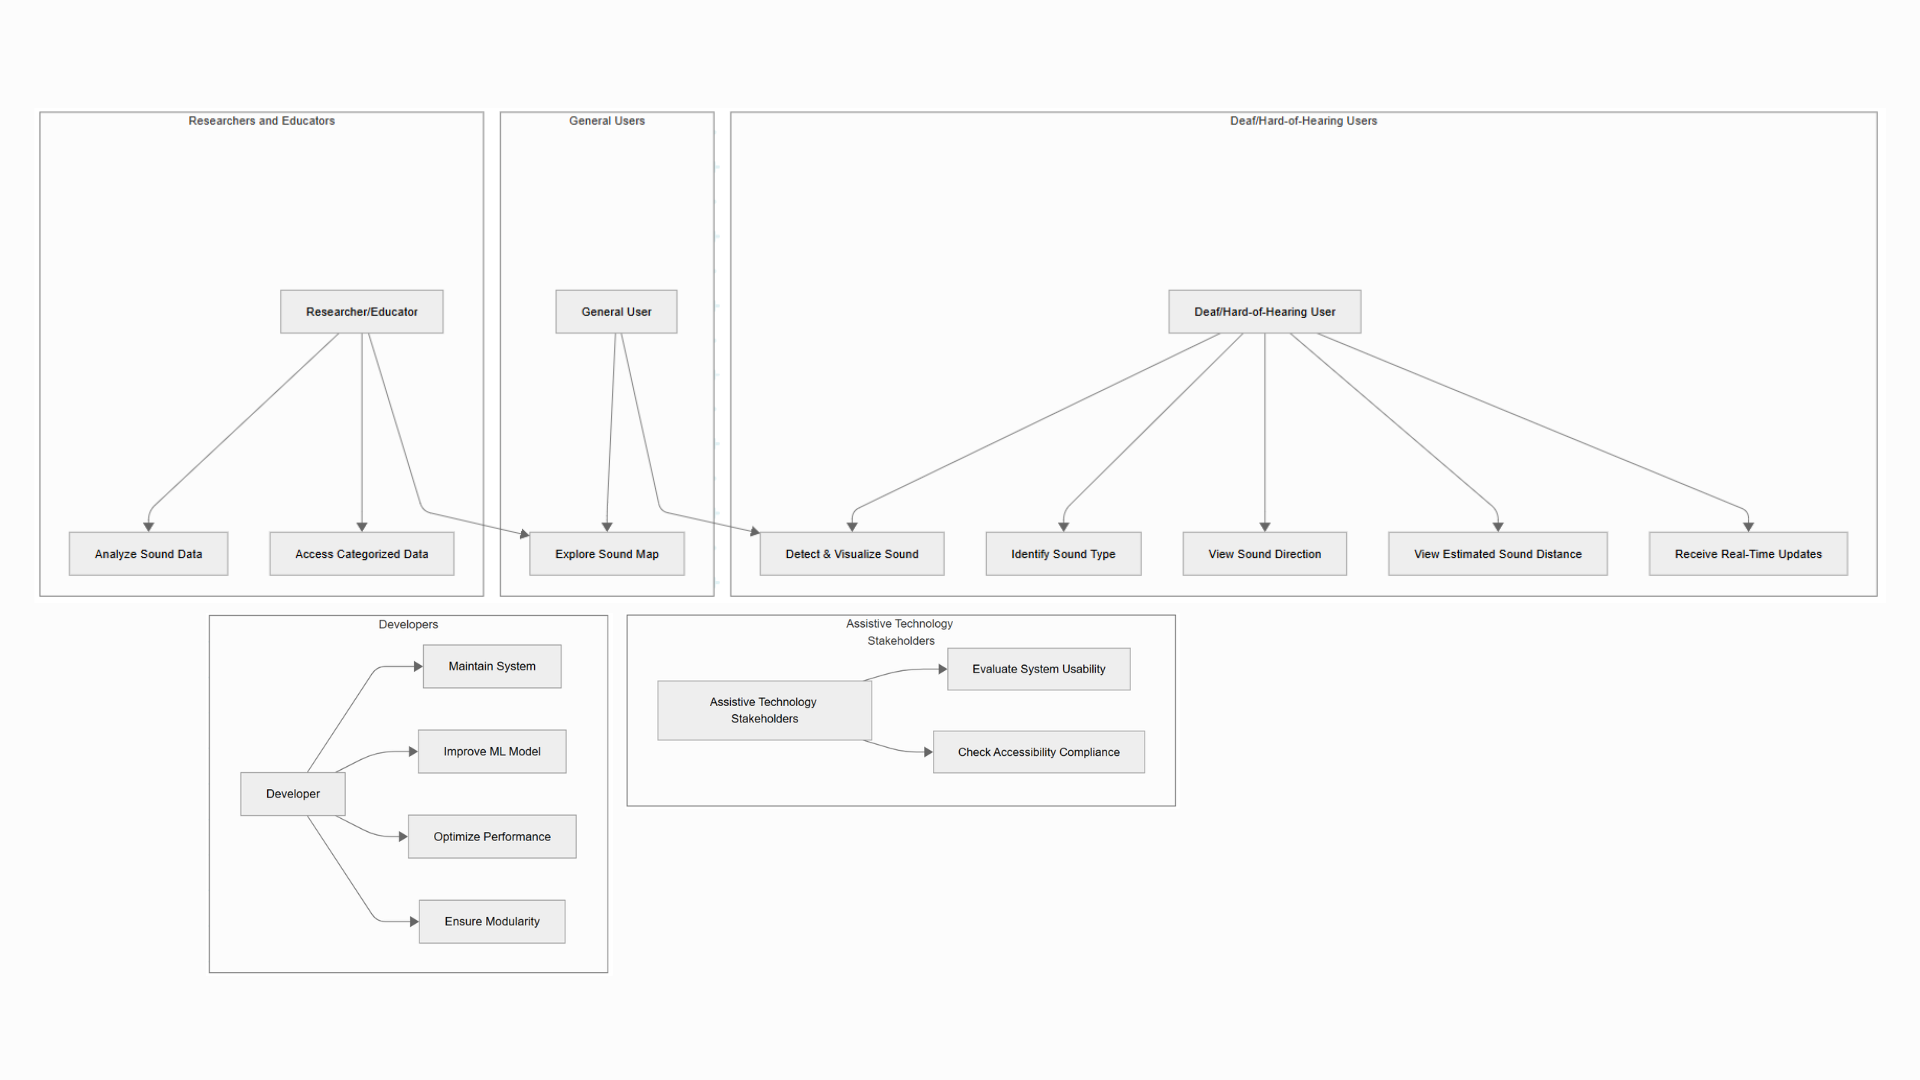
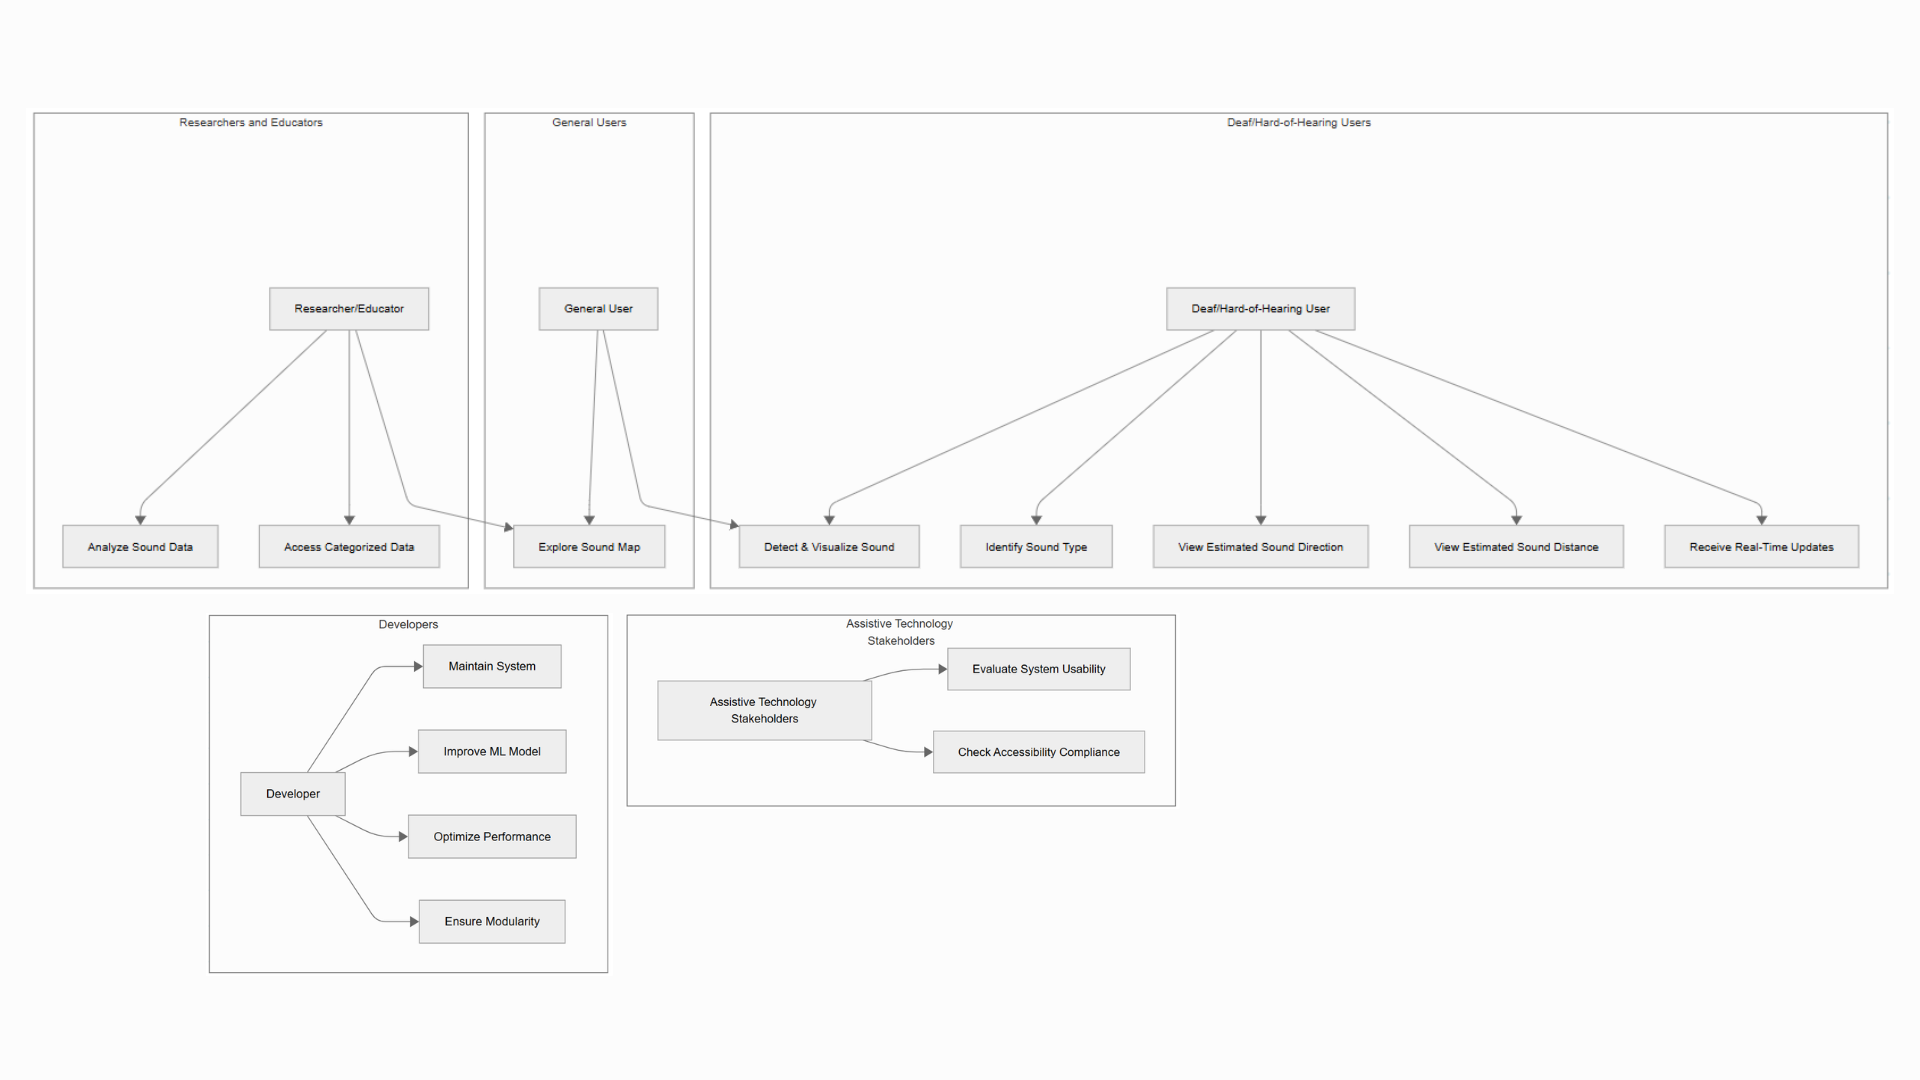
fix texts

diff --git a/body/introduction.tex b/body/introduction.tex
@@ -78,8 +78,8 @@ enabling more seamless and context-aware delivery of information in the future.
 \begin{enumerate}[leftmargin=80pt]
     \item Real-time Sound Detection: Captures environmental audio input continuously from the device microphone.
     \item Sound Classification: Identifies and categorizes detected sounds (e.g., speech, vehicle, alarm, ambient noise).
-    \item Direction Detection: Estimates the direction from which a sound originates relative to the user (e.g., east, north, east-west).
-    \item Distance Level Estimation: Provides an approximate indication of the sound source proximity using relative levels (e.g., near, far, very far).
+    \item Sound Direction Detection: Estimates the cardinal and intermediate directions from which a sound originates relative to the user (e.g., east, north, east-west).
+    \item Sound Distance Detection: Estimates the sound source proximity using distance levels (e.g., near, far, very far).
     \item Visual Map Interface: Displays detected sounds on a spatial, map-like interface for intuitive understanding.
     \item Sound Visualization Indicators: Uses visual elements to represent different sound types and properties (e.g., icons, colors, markers).
     \item User Interaction: Allows users to view, explore, and interpret sound information through the interface.
@@ -120,8 +120,10 @@ and adaptable to the needs of users who require alternative methods for perceivi
 \begin{enumerate}[leftmargin=80pt]
     \item Environmental Sound: Any sound occurring in the surrounding environment, such as speech, vehicles, alarms, or background noise.
     \item Sound Classification: The process of identifying and categorizing detected audio into predefined types (e.g., speech, traffic, alarm).
-    \item Sound Direction: The relative position from which a sound originates with respect to the user (e.g., east, north, east-west).
+    \item Sound Direction: The cardinal and intermediate directions from which a sound originates with respect to the user (e.g., east, north, east-west).
     \item Distance Level: A qualitative indication of how close or far a sound source is from the user (e.g., near, far, very far).
+    \item Cardinal Directions: The four primary compass points — North (N), South (S), East (E), and West (W).
+    \item Intermediate Directions: The four directions located between the cardinal directions — Northeast (NE), Southeast (SE), Southwest (SW), and Northwest (NW).
     \item Sound Visualization: The representation of audio information in a visual format, such as icons, markers, or spatial elements.
     \item Spatial Interface: A visual layout that represents the relative position of elements in space around the user, often using a map-like or abstract view.
     \item Non-Critical Usage: Situations where the system is used for general awareness or exploration rather than safety-critical decision-making.

diff --git a/body/requirementanalysis.tex b/body/requirementanalysis.tex
@@ -24,7 +24,7 @@ For this project, the key stakeholders are identified as follows:
 \item \textbf{Primary Users (Deaf and Hard-of-Hearing Individuals)}
 \begin{itemize}
     \item As a deaf user, I want to see what type of sound is occurring around me so that I can understand my environment.
-    \item As a deaf user, I want to know the direction of a sound so that I can locate its source.
+    \item As a deaf user, I want to know the estimated direction of a sound source so that I can locate its source.
     \item As a deaf user, I want to know the estimated distance of a sound source so that I can locate its source.
     \item As a deaf user, I want real-time updates of sound activity so that I can stay aware of changes in my surroundings.
     \item As a deaf user, I want a simple visual interface so that I can quickly interpret sound information without confusion.
@@ -87,7 +87,15 @@ Alternative Flow:
 
 \item \textbf{Identify Sound Type (Casual)}
 
-The system analyzes incoming audio and categorizes it into predefined types such as speech, vehicle, or alarm. The identified type is displayed using icons or labels.
+The system analyzes incoming audio and categorizes it into predefined types such as speech, vehicle, alarm, or ambient noise. The identified type is displayed using icons or labels.
+
+\item \textbf{View Estimated Sound Direction (Casual)}
+
+The system analyzes incoming audio and estimates the direction of a sound source using cardinal and intermediate directions such as east, north, or east-west. The estimated direction is displayed using spatial positioning on the interface.
+
+\item \textbf{View Estimated Sound Distance (Casual)}
+
+The system analyzes incoming audio and estimates the distance of a sound source using distance levels such as near, far, or very far. The estimated distance is displayed using spatial positioning on the interface.
 
 \item \textbf{Explore Sound Map (Brief)}
 
@@ -138,11 +146,11 @@ Developers maintain the system, optimize performance, and improve machine learni
 
 \textbf{Description:} The system classifies detected sounds into predefined categories such as speech, car, or dog, and displays the result using icons or labels.
 
-\subsubsection{View Sound Direction}
+\subsubsection{View Estimated Sound Direction}
 
 \textbf{Actor:} Deaf User
 
-\textbf{Description:} The system indicates the direction of detected sounds visually using spatial positioning on the interface.
+\textbf{Description:} The system estimates the direction of a sound source and represents it visually using spatial positioning on the interface.
 
 \subsubsection{View Estimated Sound Distance}
 
